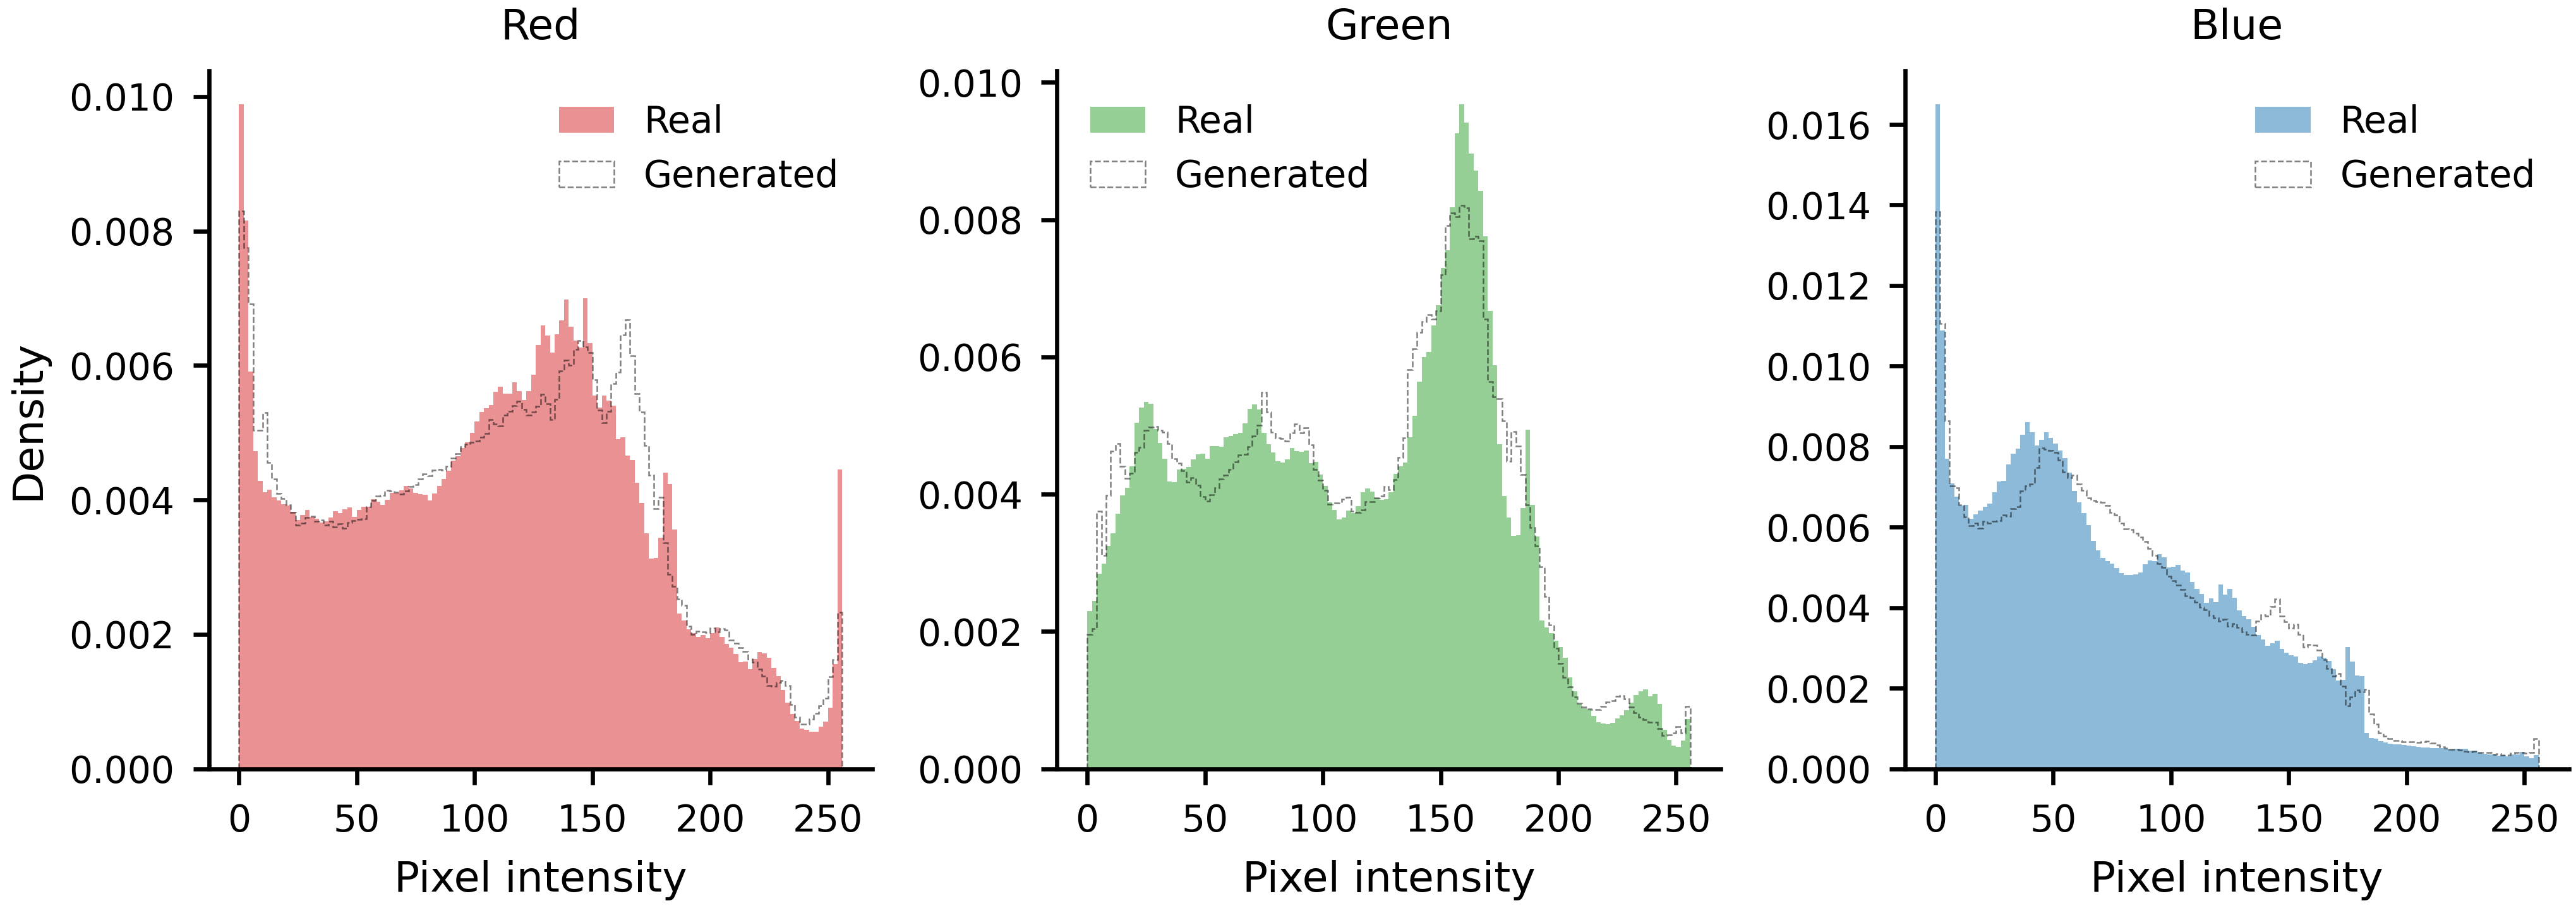
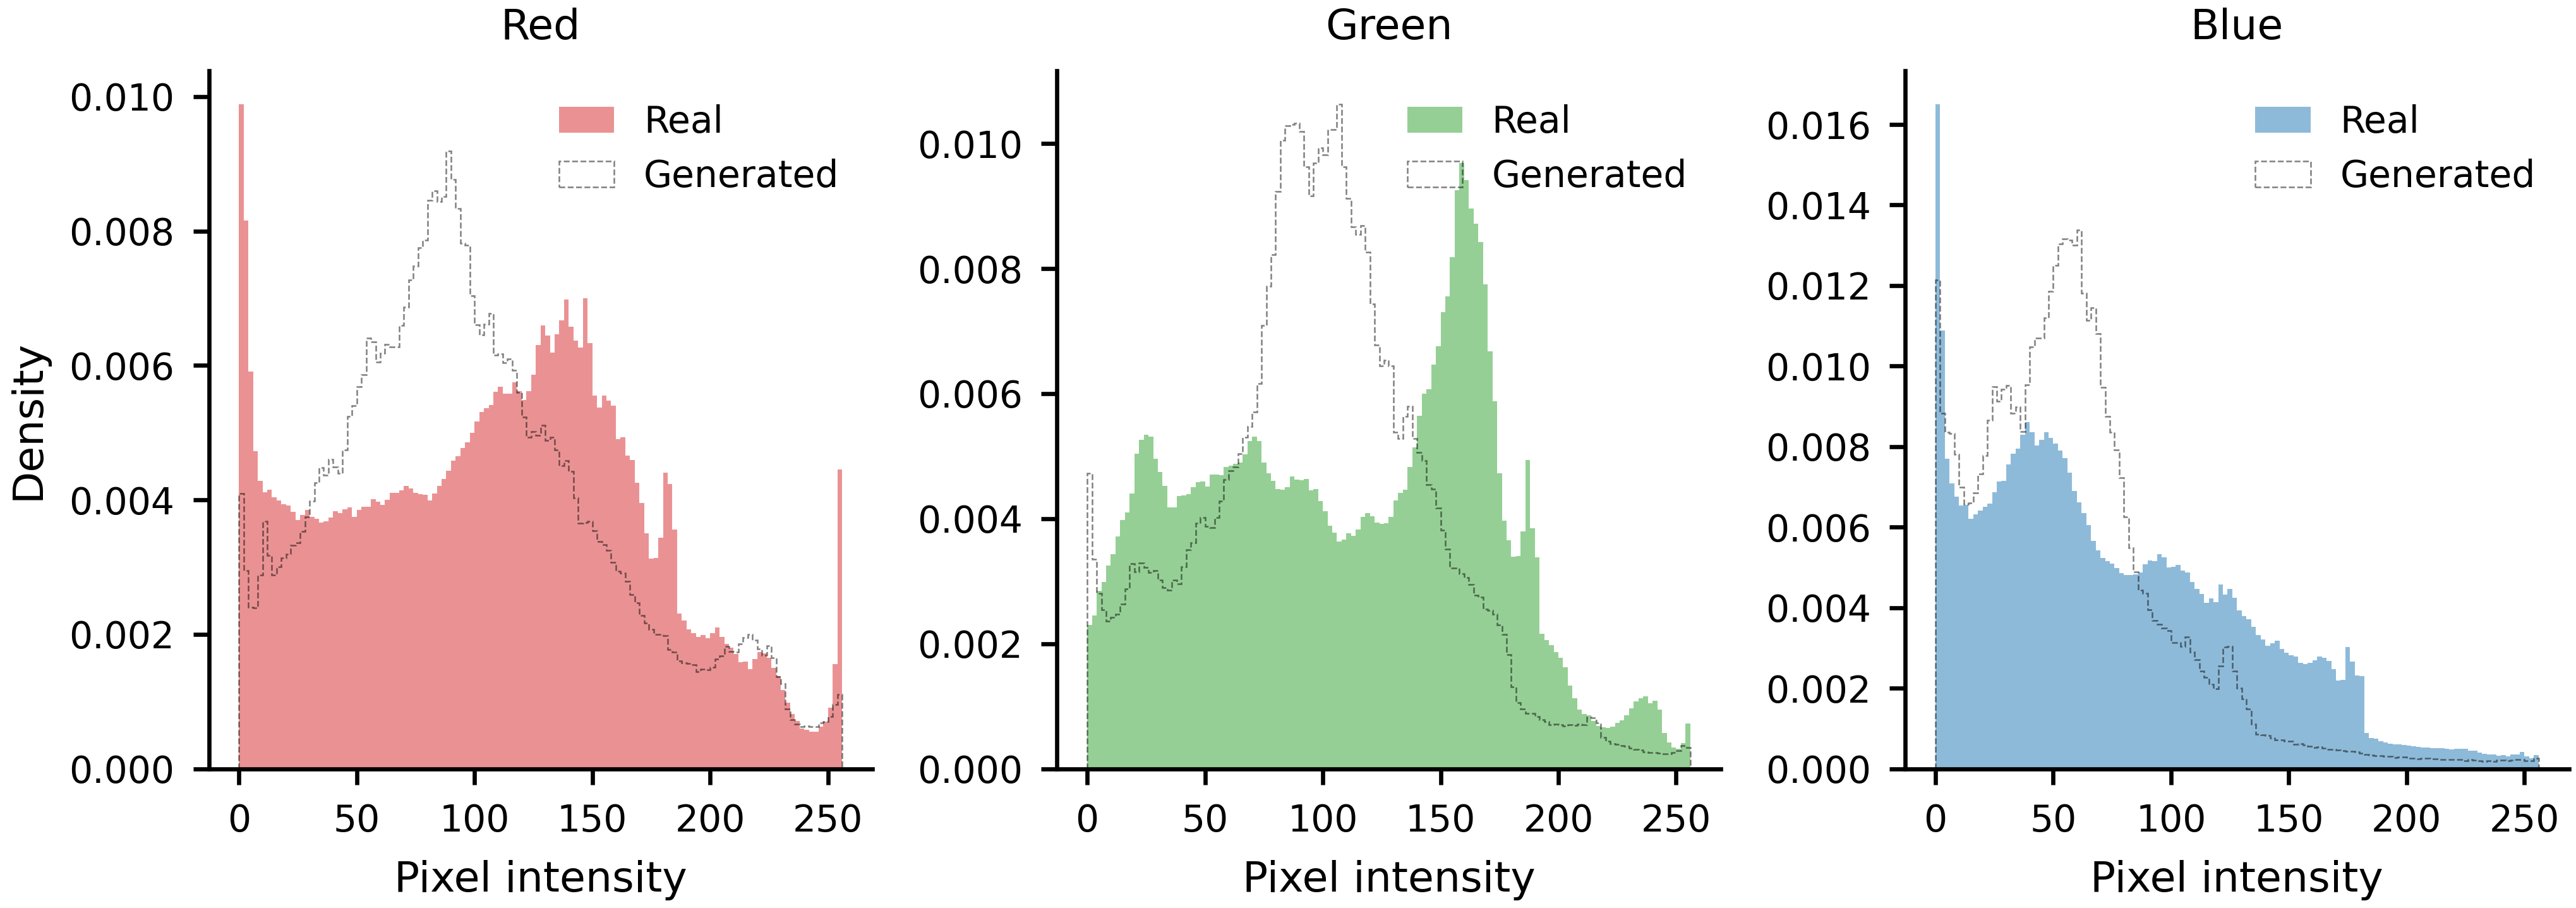
Switch to text-to-image generation, scale to 500 images
- Use fal-ai/flux/dev text-to-image (pure noise, no image conditioning)
- Source images from animals_dataset_full (4320 images, 90 species)
- Scale to N=500 with progress tracking
- Add paired t-test, Wilcoxon signed-rank, and KS statistical tests
- In-progress: ~136/500 images generated so far

diff --git a/generate_and_compare.py b/generate_and_compare.py
@@ -52,9 +52,9 @@ mpl.rcParams.update({
 })
 
 # ---- Config ----
-DATA_DIR = "/home/paperspace/animal_samples_matt"
+DATA_DIR = "/home/paperspace/animals_dataset_full/train"
 OUTPUT_DIR = "/home/paperspace/gen_comparison"
-N_SAMPLE = 10
+N_SAMPLE = 500
 SEED = 42
 
 random.seed(SEED)
@@ -65,53 +65,70 @@ os.makedirs(os.path.join(OUTPUT_DIR, "real"), exist_ok=True)
 os.makedirs(os.path.join(OUTPUT_DIR, "generated"), exist_ok=True)
 
 # ---- Collect all image paths ----
-all_images = sorted(glob.glob(os.path.join(DATA_DIR, "**", "*.jpg"), recursive=True))
-all_images += sorted(glob.glob(os.path.join(DATA_DIR, "**", "*.png"), recursive=True))
-all_images += sorted(glob.glob(os.path.join(DATA_DIR, "**", "*.jpeg"), recursive=True))
+all_images = sorted(glob.glob(os.path.join(DATA_DIR, "*.jpg")))
+all_images += sorted(glob.glob(os.path.join(DATA_DIR, "*.png")))
+all_images += sorted(glob.glob(os.path.join(DATA_DIR, "*.jpeg")))
 print(f"Found {len(all_images)} images total")
 
-# ---- Sample 10 ----
-sampled = random.sample(all_images, N_SAMPLE)
-for p in sampled:
-    animal = os.path.basename(os.path.dirname(p))
-    print(f"  Selected: {animal}/{os.path.basename(p)}")
 
-# ---- Generate similar images via fal.ai ----
+def extract_animal(filepath):
+    """Extract animal name from filename like train_00001_label12_cockroach.jpg"""
+    base = os.path.splitext(os.path.basename(filepath))[0]
+    # Animal name is everything after the last '_labelNN_'
+    parts = base.split("_")
+    # Find the label part and take everything after it
+    for j, part in enumerate(parts):
+        if part.startswith("label"):
+            return "_".join(parts[j + 1:])
+    return "animal"
+
+
+# ---- Sample N ----
+sampled = random.sample(all_images, N_SAMPLE)
+print(f"Sampled {N_SAMPLE} images")
+for p in sampled[:10]:
+    print(f"  e.g. {extract_animal(p)}: {os.path.basename(p)}")
+print(f"  ... and {N_SAMPLE - 10} more")
+
+# ---- Generate fully synthetic images via fal.ai text-to-image ----
 real_arrays = []
 gen_arrays = []
 
+import time
+t_start = time.time()
+
 for i, img_path in enumerate(sampled):
-    animal = os.path.basename(os.path.dirname(img_path))
+    animal = extract_animal(img_path)
     fname = os.path.basename(img_path)
-    print(f"[{i+1}/{N_SAMPLE}] Uploading and generating for {animal}/{fname}...")
+    if i % 50 == 0 or i < 5:
+        elapsed = time.time() - t_start
+        rate = i / elapsed if elapsed > 0 and i > 0 else 0
+        eta = (N_SAMPLE - i) / rate / 60 if rate > 0 else 0
+        print(f"[{i+1}/{N_SAMPLE}] Generating for {animal}/{fname}... "
+              f"({elapsed/60:.1f}min elapsed, ~{eta:.0f}min remaining)")
 
     # Load real image and scale preserving aspect ratio (longest side = 512)
     real_img = Image.open(img_path).convert("RGB")
     w, h = real_img.size
     max_side = 512
     scale = max_side / max(w, h)
-    new_w = round(w * scale / 8) * 8  # round to multiple of 8 for diffusion models
+    new_w = round(w * scale / 8) * 8
     new_h = round(h * scale / 8) * 8
     real_img_resized = real_img.resize((new_w, new_h))
-    print(f"  Original: {w}x{h} -> Resized: {new_w}x{new_h}")
+    print(f"  Real image: {w}x{h} -> {new_w}x{new_h}")
 
-    # Upload image to fal
-    image_url = fal_client.upload_file(img_path)
-    print(f"  Uploaded: {image_url}")
-
-    # Build prompt from the animal category
+    # Build prompt — purely text-driven, no image input
     prompt = (
-        f"a realistic high-resolution photograph of a {animal} in its natural habitat, "
-        f"wildlife photography, detailed, sharp focus, natural lighting"
+        f"A real photograph of a {animal} in its true natural habitat as it would be "
+        f"found in the real world. Wildlife photography, realistic, unedited, natural "
+        f"lighting, sharp focus, taken with a DSLR camera"
     )
 
-    # Generate with FLUX img2img (strength ~0.55 to stay close to original)
+    # Generate from noise via FLUX text-to-image (no image input)
     result = fal_client.subscribe(
-        "fal-ai/flux/dev/image-to-image",
+        "fal-ai/flux/dev",
         arguments={
-            "image_url": image_url,
             "prompt": prompt,
-            "strength": 0.55,
             "num_inference_steps": 28,
             "image_size": {"width": new_w, "height": new_h},
         },
@@ -124,8 +141,8 @@ for i, img_path in enumerate(sampled):
     gen_img_resized = gen_img.resize((new_w, new_h))
 
     # Save copies
-    real_img_resized.save(os.path.join(OUTPUT_DIR, "real", f"{i:02d}_{animal}_{fname}"))
-    gen_img_resized.save(os.path.join(OUTPUT_DIR, "generated", f"{i:02d}_{animal}_{fname}"))
+    real_img_resized.save(os.path.join(OUTPUT_DIR, "real", f"{i:03d}_{animal}_{fname}"))
+    gen_img_resized.save(os.path.join(OUTPUT_DIR, "generated", f"{i:03d}_{animal}_{fname}"))
 
     real_arrays.append(np.array(real_img_resized))
     gen_arrays.append(np.array(gen_img_resized))
@@ -163,12 +180,13 @@ plt.tight_layout()
 fig.savefig(os.path.join(OUTPUT_DIR, "rgb_histogram_comparison.png"))
 print(f"Histogram saved to {OUTPUT_DIR}/rgb_histogram_comparison.png")
 
-# ---- Side-by-side grid of real vs generated (paired vertically) ----
-fig2, axes2 = plt.subplots(2, N_SAMPLE, figsize=(N_SAMPLE * 1.2, 2.8))
-for i in range(N_SAMPLE):
+# ---- Side-by-side grid (show first 10 pairs) ----
+N_GRID = min(10, N_SAMPLE)
+fig2, axes2 = plt.subplots(2, N_GRID, figsize=(N_GRID * 1.2, 2.8))
+for i in range(N_GRID):
     axes2[0, i].imshow(real_arrays[i])
     axes2[0, i].axis("off")
-    animal = os.path.basename(os.path.dirname(sampled[i]))
+    animal = extract_animal(sampled[i])
     axes2[0, i].set_title(animal, fontsize=5)
 
     axes2[1, i].imshow(gen_arrays[i])